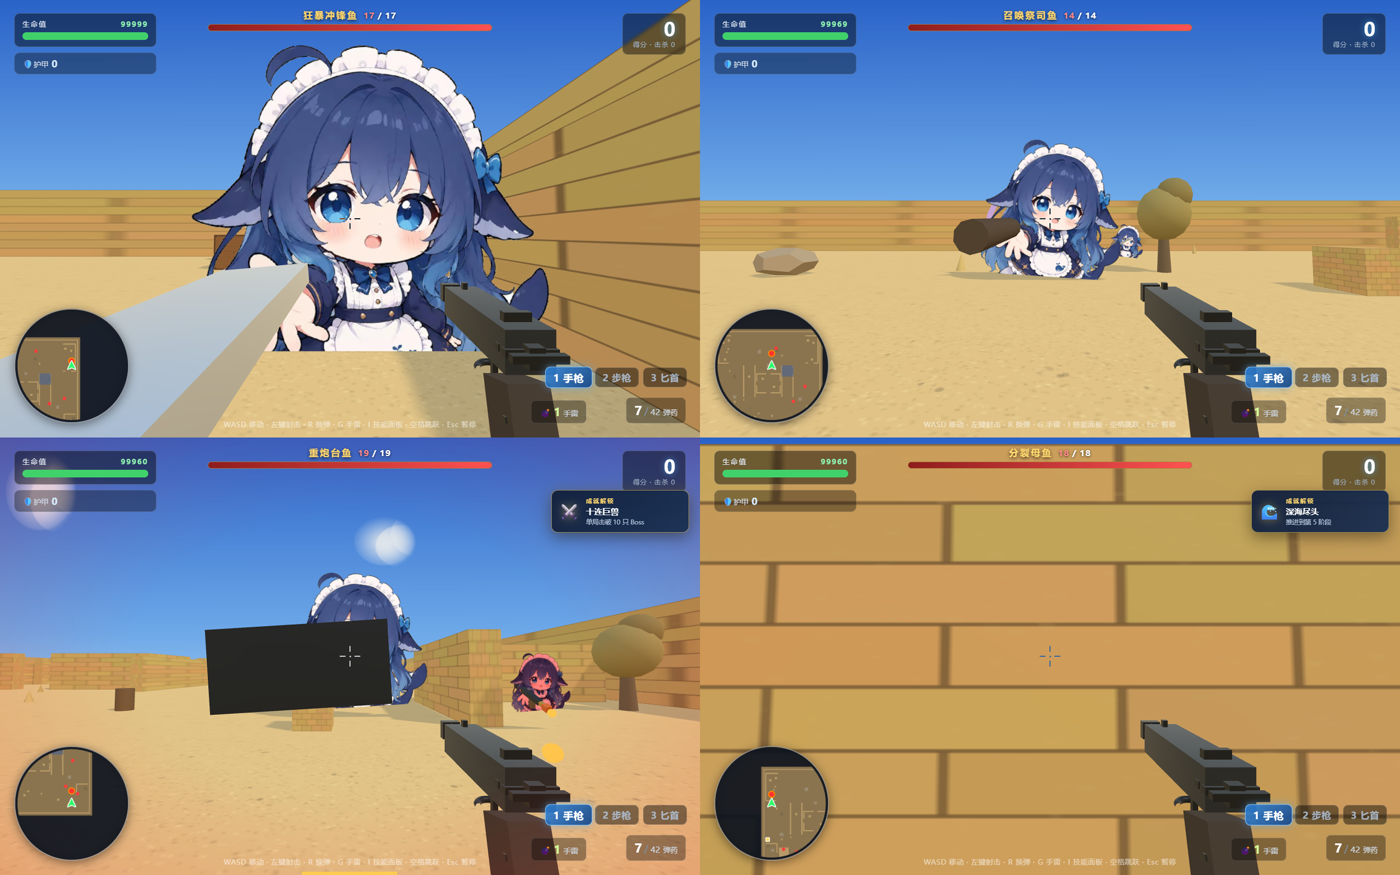
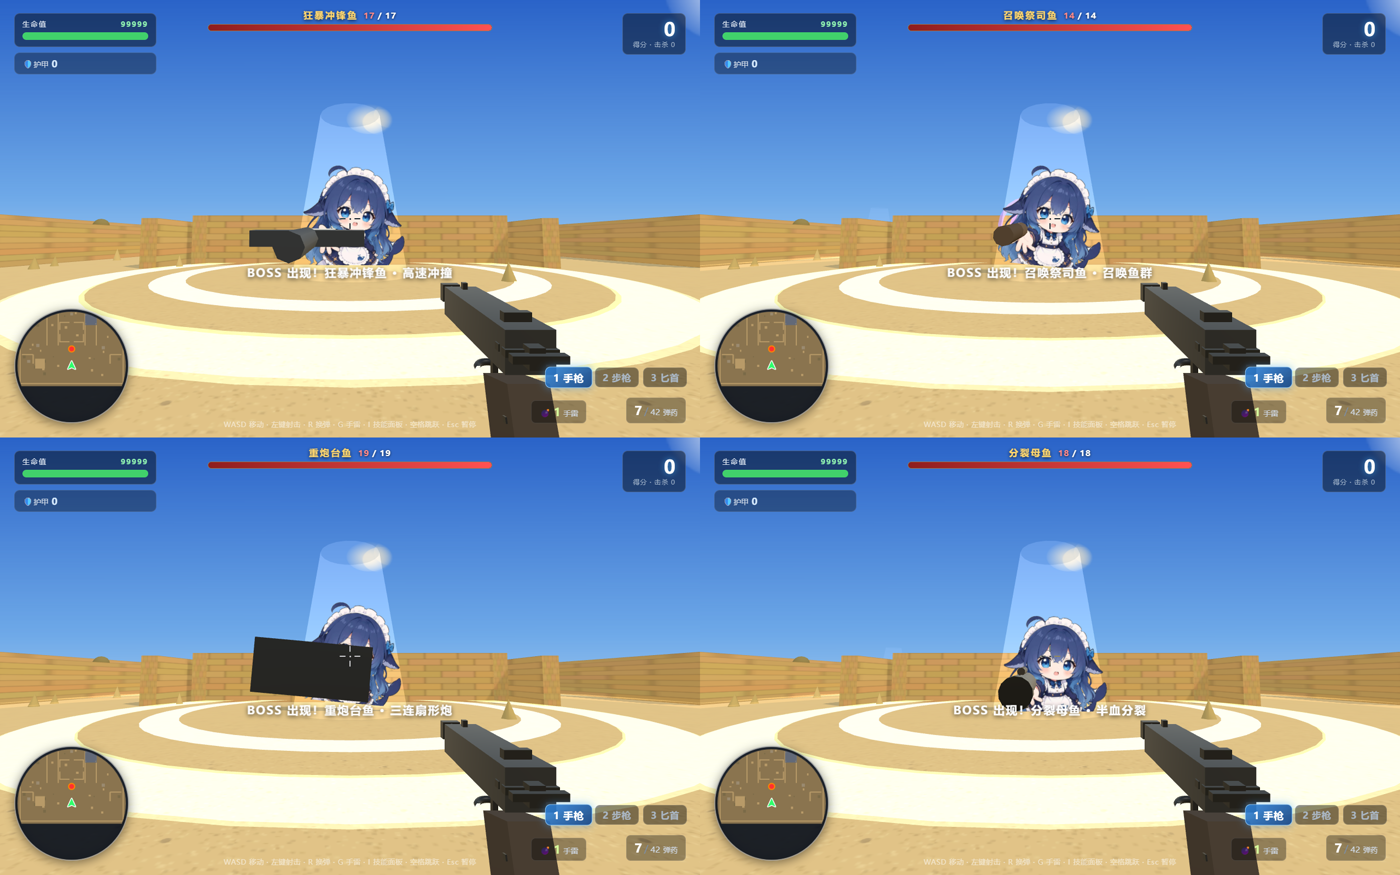
docs: 重制 Boss 变体配图 + 更新日志补充实机截图
① 重制 Boss 变体 2x2 拼图（原图有遮挡问题）
   问题：冲锋鱼贴脸、炮台鱼被枪管挡住、分裂母鱼那张完全被随机掩体挡住视线
   处理：截图前清空随机掩体、固定 Boss 站位与机位、冻结移动（state=paused 时
        光圈特效仍在播放）、隐藏成就弹窗；
        四张截图机位完全一致，血条名称（狂暴冲锋鱼/召唤祭司鱼/重炮台鱼/分裂母鱼）
        与出场光圈都清晰可见

② 开发日志的 v0.5.0 条目补充 6 张实机截图：
   成就系统 / 三武器与 HUD / 扩容弹夹掉落 / Boss 出场演出 / 环境主题与半屏大字 / 设置面板

新增测试接口：bossFxAt（在指定位置播放 Boss 出场光圈）

diff --git a/js/game.js b/js/game.js
@@ -5996,6 +5996,9 @@ window.FishGame = {
     },
     setEnvTheme: applyEnvTheme,                          // 测试用：切换环境主题
     getEnvTheme: function () { return { index: envIndex, name: ENV_THEMES[envIndex].name }; },
+    bossFxAt: function (x, z) {                          // 测试用：在指定位置播出场光圈
+      spawnBossEntranceFx(new THREE.Vector3(x, 0, z));
+    },
     spawnBossNow: spawnBoss,                             // 测试用：立即生成一只 Boss
     clearBossNow: function () {                          // 测试用：移除当前 Boss
       if (boss) { scene.remove(boss.mesh); boss = null; hideBossBar(); }

diff --git a/README.md b/README.md
@@ -346,6 +346,20 @@ node tests/e2e-test.js      # 服务器端到端测试
     为后续更多右键操作铺路
   - **修复**：指针锁定被误判降级且不可逆的 bug（玩家反馈）、枪口火焰未跟随武器枪管长度的问题
 
+  **实机截图**
+
+  ![成就系统：13 项成就，未解锁灰化 / 已解锁金色渐变描边](images/16-achievements.png)
+
+  ![三武器与 HUD 武器栏（1 手枪 / 2 步枪 / 3 匕首）](images/13-knife.png)
+
+  ![扩容弹夹掉落：手枪 4 档 + 步枪 5 档（含 120 发弹鼓）](images/12-mag-drops.png)
+
+  ![Boss 出场演出：三层地面扩散光圈 + 中心上升光柱](images/10-boss-entrance.png)
+
+  ![环境主题：血月 + 屏幕中央半屏大字](images/14-env-theme.png)
+
+  ![设置面板：四路音量 / 灵敏度 / 画质 / 色盲配色](images/17-settings.png)
+
 - v0.4.0（正式版）——
   · **波次与阶段系统**（无尽模式重构）：准备(2.2s 提示) → 战斗 → 清空 → 喘息(4.5s) → 下一波；
     每击杀 10 次 Boss 升一阶段（共 5 阶段），每阶段每波 +2 敌并解锁一种新敌人
